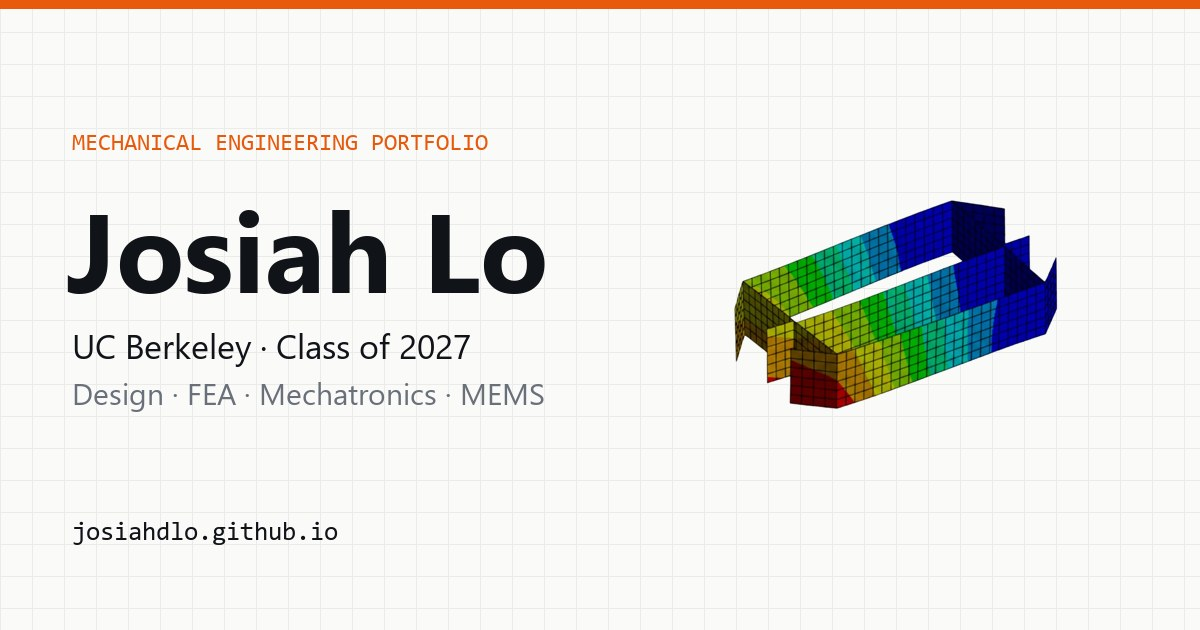
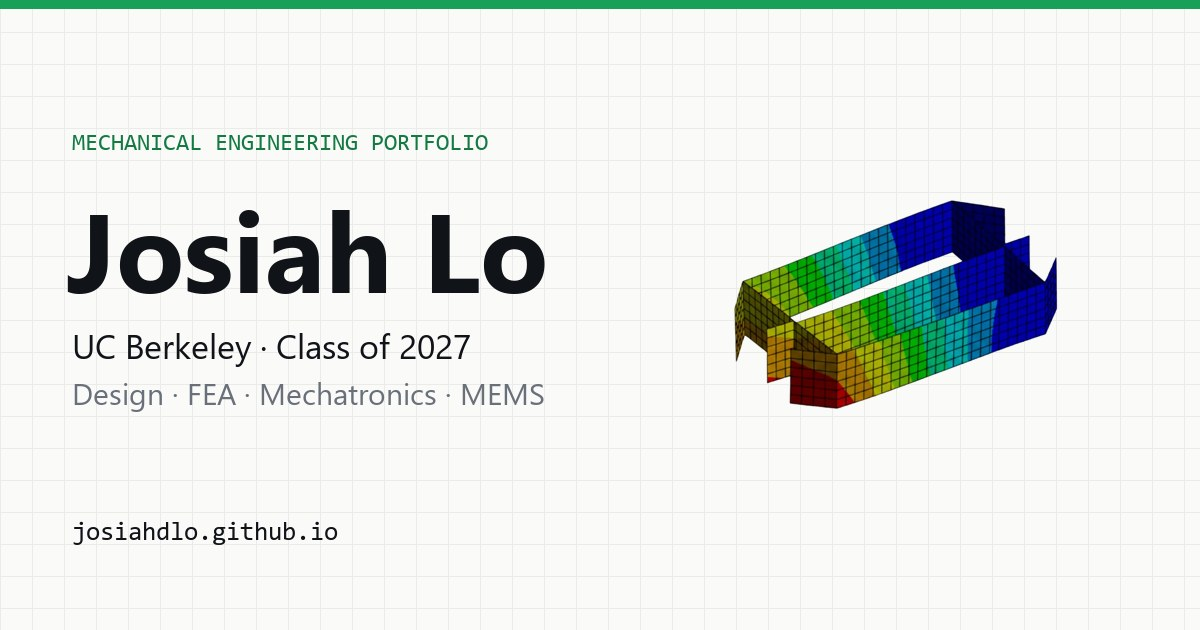
Switch accent color from orange to green
Update the accent tokens, favicon, and link-preview image. Filled
buttons use the darker green so white text keeps good contrast.

Changed region(s): [[0.0, 0.0, 1.0, 0.0302], [0.0617, 0.2111, 0.4317, 0.2413]]

diff --git a/assets/css/style.css b/assets/css/style.css
@@ -1,6 +1,6 @@
 /* ==========================================================================
    Josiah Lo — portfolio
-   Light "drawing sheet" theme: paper white, ink black, one signal-orange accent.
+   Light "drawing sheet" theme: paper white, ink black, one green accent.
    ========================================================================== */
 
 :root {
@@ -16,10 +16,9 @@
   --line-2: #cdd1cb;
   --grid: rgba(16, 19, 24, 0.055);
 
-  --accent: #e8590c;        /* graphics, large type */
-  --accent-ink: #b5440a;    /* small text on light backgrounds */
-  --accent-soft: #fff1e8;
-  --ok: #15803d;
+  --accent: #18a058;        /* graphics, large type */
+  --accent-ink: #137a43;    /* small text and filled buttons (white text passes contrast) */
+  --accent-soft: #e8f6ee;
 
   --font-display: "Space Grotesk", system-ui, -apple-system, "Segoe UI", sans-serif;
   --font-body: "Inter", system-ui, -apple-system, "Segoe UI", Roboto, sans-serif;
@@ -251,8 +250,8 @@ p { margin: 0 0 1em; }
 .btn svg { width: 16px; height: 16px; flex: none; }
 .btn--primary { background: var(--ink); border-color: var(--ink); color: #fff; }
 .btn--primary:hover { background: #2b3038; border-color: #2b3038; }
-.btn--accent { background: var(--accent); border-color: var(--accent); color: #fff; }
-.btn--accent:hover { background: var(--accent-ink); border-color: var(--accent-ink); }
+.btn--accent { background: var(--accent-ink); border-color: var(--accent-ink); color: #fff; }
+.btn--accent:hover { background: #0f6236; border-color: #0f6236; }
 
 /* ---------- Hero ---------- */
 
